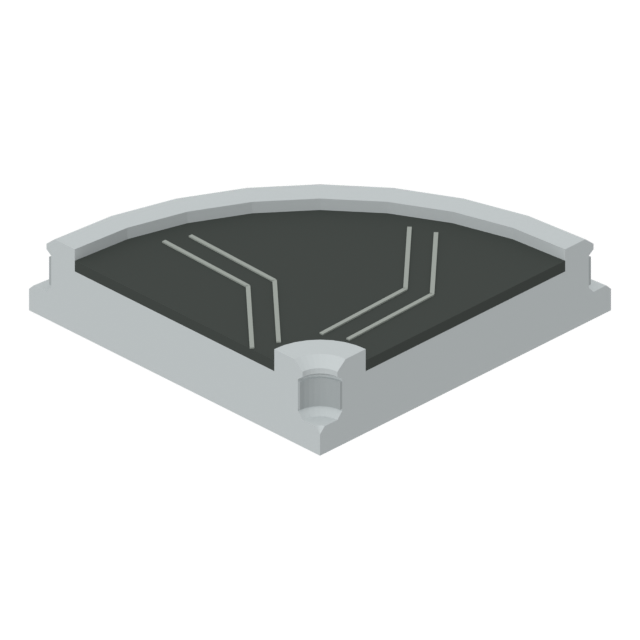
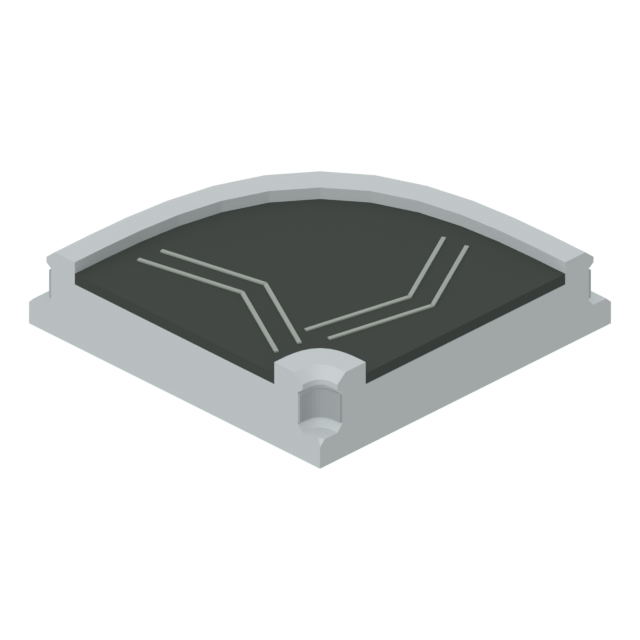
A squarer outer rail on the corners, and a small factory
The developer asked to leave the corner's inner side alone and cut the
outer rail back less, so that the turn keeps some of its angle. The
sweep is now a superellipse (belts.SQUARE = 3.2; 2 is a circle); bolts
and arrows are placed from the curve itself.

factory1 lays two lines, each ore, smelter, former, into one assembler:
the far line straight in, the near line through a left and a right
turn. The mouth covers stand a hair off the belt's end so that nothing
shares a plane there.

Claude-Session: https://claude.ai/code/session_01W5XMnWw2PL68atZgiMiQxw

Changed region(s): [[0.0312, 0.25, 0.9688, 0.75]]

diff --git a/art/catalog/v2.html b/art/catalog/v2.html
@@ -118,7 +118,7 @@
       <figcaption>
         <h3>코너 벨트</h3>
         <p class="recipe">진행 방향을 90도 꺾음 (좌·우 대칭형)</p>
-        <p class="meta">1×1칸 · 높이 0.2칸(0.7스터드) · 출입구 없음 · 삼각형 720</p>
+        <p class="meta">1×1칸 · 높이 0.2칸(0.7스터드) · 출입구 없음 · 삼각형 976</p>
       </figcaption>
     </figure>
     <figure class="card">

diff --git a/art/v2/belts.py b/art/v2/belts.py
@@ -21,7 +21,7 @@ from .base import BOLT, BOLT_AT, BOLT_LEAN, WEB
 
 ST = "h_steel"
 
-ARC = 8                   # facets in a quarter turn
+ARC = 12                  # facets in a quarter turn
 BELT = [(-BH, BED), (BH, BED), (BH, BZ), (-BH, BZ)]           # the belt itself, lying on the bed
 
 
@@ -50,14 +50,28 @@ def straight(m):
     run(m, -0.5, 0.5, braces=(-1 / 3, 0.0, 1 / 3))
 
 
-def corner(m, turn=-1):
+SQUARE = 3.2             # how square a corner's outer rail turns: 2 is a quarter circle, larger is squarer
+
+
+def corner(m, turn=-1, square=None):
     """Corner belt, 1x1: in from the west; out to the south (turn = -1, a right turn) or to the north
-    (turn = +1). The section is swept round the cell's inner corner, so the outer rail is one curve and
-    the inner rail closes into a round post."""
+    (turn = +1). The section is swept round the cell's inner corner, so rails, bed and belt turn as one
+    and the inner rail closes into a post. The sweep is not a quarter circle but a little squarer (a
+    superellipse): the developer asked for the outer rail to be cut back less, so that the corner
+    keeps some of its angle. Both ends are still the plain section, square to the cell's edge."""
+    n = SQUARE if square is None else square
+
     def at(th, across, z):                                    # a point of the section, th degrees round from the entry
         a = rad(90 - th)
-        r = 0.5 + across
+        c, s_ = abs(math.cos(a)), abs(math.sin(a))
+        r = (0.5 + across) * (c ** n + s_ ** n) ** (-1.0 / n)
         return (-0.5 + r * math.cos(a), -turn * (-0.5 + r * math.sin(a)), z)
+
+    def frame_at(th, across):                                 # where that point is, and which way the belt runs there
+        x, y, _ = at(th, across, 0.0)
+        x0, y0, _ = at(th - 0.5, across, 0.0)
+        x1, y1, _ = at(th + 0.5, across, 0.0)
+        return x, y, math.atan2(y1 - y0, x1 - x0)
 
     steps = [90.0 * i / ARC for i in range(ARC + 1)]
     loft(m, [[at(th, y, z) for y, z in SECTION] for th in steps], R)
@@ -65,13 +79,13 @@ def corner(m, turn=-1):
     loft(m, [[at(th, -y, z) for y, z in WEB] for th in steps], RD)                      # and in the inner rail's
     loft(m, [[at(th, y, z) for y, z in BELT] for th in steps], "h_belt")
     for th in (22.5, 67.5):                                   # arrows, turning with the belt
-        x, y, _ = at(th, 0.0, 0.0)
-        with m.at((x, y, 0), rad(turn * th)):
+        x, y, head = frame_at(th, 0.0)
+        with m.at((x, y, 0), head):
             chev(m, 0.0)
-    for th in (22.5, 45.0, 67.5):                             # bolts on the outer rail
-        x, y, _ = at(th, 0.0, 0.0)
-        with m.at((x, y, 0), rad(turn * th) + (0.0 if turn < 0 else math.pi)):
-            bolt(m)
+    for th in (20.0, 45.0, 70.0):                             # bolts in the outer rail's web, each square to it
+        x, y, head = frame_at(th, BOLT_AT[0])
+        with m.at((x, y, 0), head + (0.0 if turn < 0 else math.pi)):
+            m.cyl(BOLT[0], BOLT[1], (0, 0, BOLT_AT[1]), "h_lite", seg=6, axis="Y")
 
 
 def corner_right(m):

diff --git a/art/v2/set2.py b/art/v2/set2.py
@@ -1737,6 +1737,52 @@ belts_all.res = 3200                      # wide, and the joints must be seen cl
 _hero.HEROES["belts_all"] = belts_all
 
 
+def factory1(m):
+    """Not a machine: a small factory, to see the machines and belts as one thing. Two lines run side
+    by side, each ore -> smelter -> former; the far line runs straight into one of the assembler's
+    inputs, the near line turns left and right to reach the other; the assembler's output runs on."""
+    OX, OY = 2.0, 1.5
+    R90 = rad(90)
+
+    def put(fn, x, y, rz=0.0, z=0.0):
+        with m.at((x + OX, y + OY, z), rz):
+            fn(m)
+
+    def thing(x, y, kind):                                    # something riding the belt
+        with m.at((x + OX, y + OY, BZ + 0.006)):       # just clear of the arrows painted on the belt
+            if kind == "ore":
+                m.box((0.26, 0.24, 0.18), (0, 0, 0.09), "h_ore", bevel=0.05)
+            elif kind == "ingot":
+                m.box((0.30, 0.16, 0.10), (0, 0, 0.05), "h_steel", bevel=0.03, taper=0.8)
+            else:
+                m.box((0.30, 0.26, 0.04), (0, 0, 0.02), "h_lite", bevel=0.012)
+
+    for y in (1, -3):                                         # the two lines
+        for x in (-10, -9):
+            put(_belts.straight, x, y)
+        put(smelter9, -6.5, y - 0.5)
+        put(_belts.straight, -4, y)
+        put(former2, -2, y - 0.5)
+        put(_belts.straight, 0, y)
+        thing(-10.1, y, "ore")
+        thing(-9.2, y, "ore")
+        thing(-4.0, y, "ingot")
+        thing(0.0, y, "plate")
+    put(_belts.straight, 1, 1)                                # the far line: straight in
+    put(_belts.corner_left, 1, -3)                            # the near line: up two cells, then in
+    put(_belts.straight, 1, -2, R90)
+    put(_belts.corner_right, 1, -1, R90)
+    thing(1.0, -2.0, "plate")
+    put(assembler4, 3, 0)
+    for x in (5, 6):
+        put(_belts.straight, x, 0)
+
+
+factory1.frame, factory1.shadow = {"iso": (20.0, 1.2), "side": (18.0, 1.6), "top": (18.5, 0.6), "end": (9.0, 1.6)}, True
+factory1.res = 3200
+_hero.HEROES["factory1"] = factory1
+
+
 def belts_stack(m):
     """Not a machine: three lines of conveyor one cell above another, each two straights, a ramp without
     trestles and a straight one cell higher, with things riding them, to judge the room between stacked

diff --git a/art/v2/d.py b/art/v2/d.py
@@ -79,6 +79,7 @@ def cover(m, x0, d, sole=True):
     """The folding cover over a tunnel mouth at the body's end x0, opening toward d. A collar hugs each
     rail behind the end frame, which stands on the rail itself; with sole=False the machine supplies
     its own."""
+    x0 += d * 0.004                                           # a hair clear of the belt's own end, so no two faces share a plane there
     if sole:
         collar(m, *sorted((x0, x0 + d * 0.318)))
     px = x0

diff --git a/docs/modeling-principles.md b/docs/modeling-principles.md
@@ -95,6 +95,7 @@
 - **난간의 벽은 곧추세웁니다.** 납작하게 만든 직후에는 난간의 바깥 벽이 길게 누워 있어서, 벨트의 끝이 "너무 가파른 평행사변형처럼" 보였습니다(개발자). 난간 머리를 바깥으로 내어 몸통을 넓히고 벽을 세웠습니다.
 - **경사의 다리는 가는 틀입니다.** 굵은 기둥은 개발자가 "지금 너무 굵음"이라고 했습니다. 난간 밑의 가는 기둥, 작은 발, 두 기둥 사이의 가로대, 기둥에서 난간으로 올라가는 버팀대로 만듭니다. 다리가 없는 경사(`ramp_bare`)도 있어서 경사끼리 위아래로 겹쳐 놓을 수 있습니다.
 - **모든 조각은 같은 단면으로 끝납니다.** 난간과 바닥이 한 덩어리인 단면(`d.SECTION`)이 칸의 가장자리에서 직각으로 끝나므로, 어느 조각끼리든, 기계의 입구와도 턱 없이 이어집니다. 새 조각을 만들 때 이 단면을 바꾸거나 칸 가장자리에서 다른 모양으로 끝내지 않습니다.
+- **코너의 바깥은 조금 각지게 돕니다.** 반듯한 사분원이 아니라 살짝 네모진 곡선입니다(`belts.SQUARE`, 2면 원이고 클수록 네모남. 지금 3.2). 안쪽 난간이 한 점으로 모여 각져 보이는 것을 고치자고 하자 개발자가 "안쪽을 고치지 말고 바깥쪽을 살짝 덜 깎아서 조금 각지게 만들어 보자"고 했습니다(2026-10-08). 양 끝은 여전히 같은 단면입니다.
 - **코너는 단면 전체를 칸의 안쪽 모서리를 중심으로 돌려서 만듭니다.** 난간 둘과 바닥과 벨트가 함께 휩니다. 난간을 직각으로 맞대지 않습니다. 화살표와 볼트도 휘는 방향을 따라 돕니다.
 - **경사는 만나는 상대에 따라 끝이 달라집니다.** 평평한 벨트와 만나는 끝은 수평으로 시작하거나 끝나서 난간이 꺾임 없이 이어지고, 다른 경사와 만나는 끝은 기울기를 그대로 유지합니다. 처음에는 모든 경사의 양 끝을 수평으로 만들었는데, 개발자가 "경사면을 여러 개 이을 때 롤러코스터마냥 꿀렁댈 것 같다"고 짚었습니다. 그래서 모양이 넷입니다: 혼자 놓인 것(양 끝 수평), 줄의 첫 칸(`ramp_start`), 가운데(`ramp_mid`), 마지막 칸(`ramp_end`). 게임에서는 플레이어가 고르는 것이 아니라 이웃을 보고 자동으로 정해져야 합니다(아직 안 만듦). 밑은 꽉 채운 둑이 아니라 다리 둘(난간 밑의 기둥과 그 사이의 가로대)이 받칩니다.
 - **내려가는 경사도 있습니다**(개발자: "내려가는 벨트도 만들자", 2026-10-08). 올라가는 경사를 앞뒤로 뒤집은 모양이고 화살표는 내려가는 쪽을 가리킵니다. 끝이 달라지는 네 모양과 다리 없는 것이 똑같이 있습니다(`ramp_down`, `ramp_down_start`, `ramp_down_mid`, `ramp_down_end`, `ramp_down_bare`). 게임에는 아직 없습니다.
